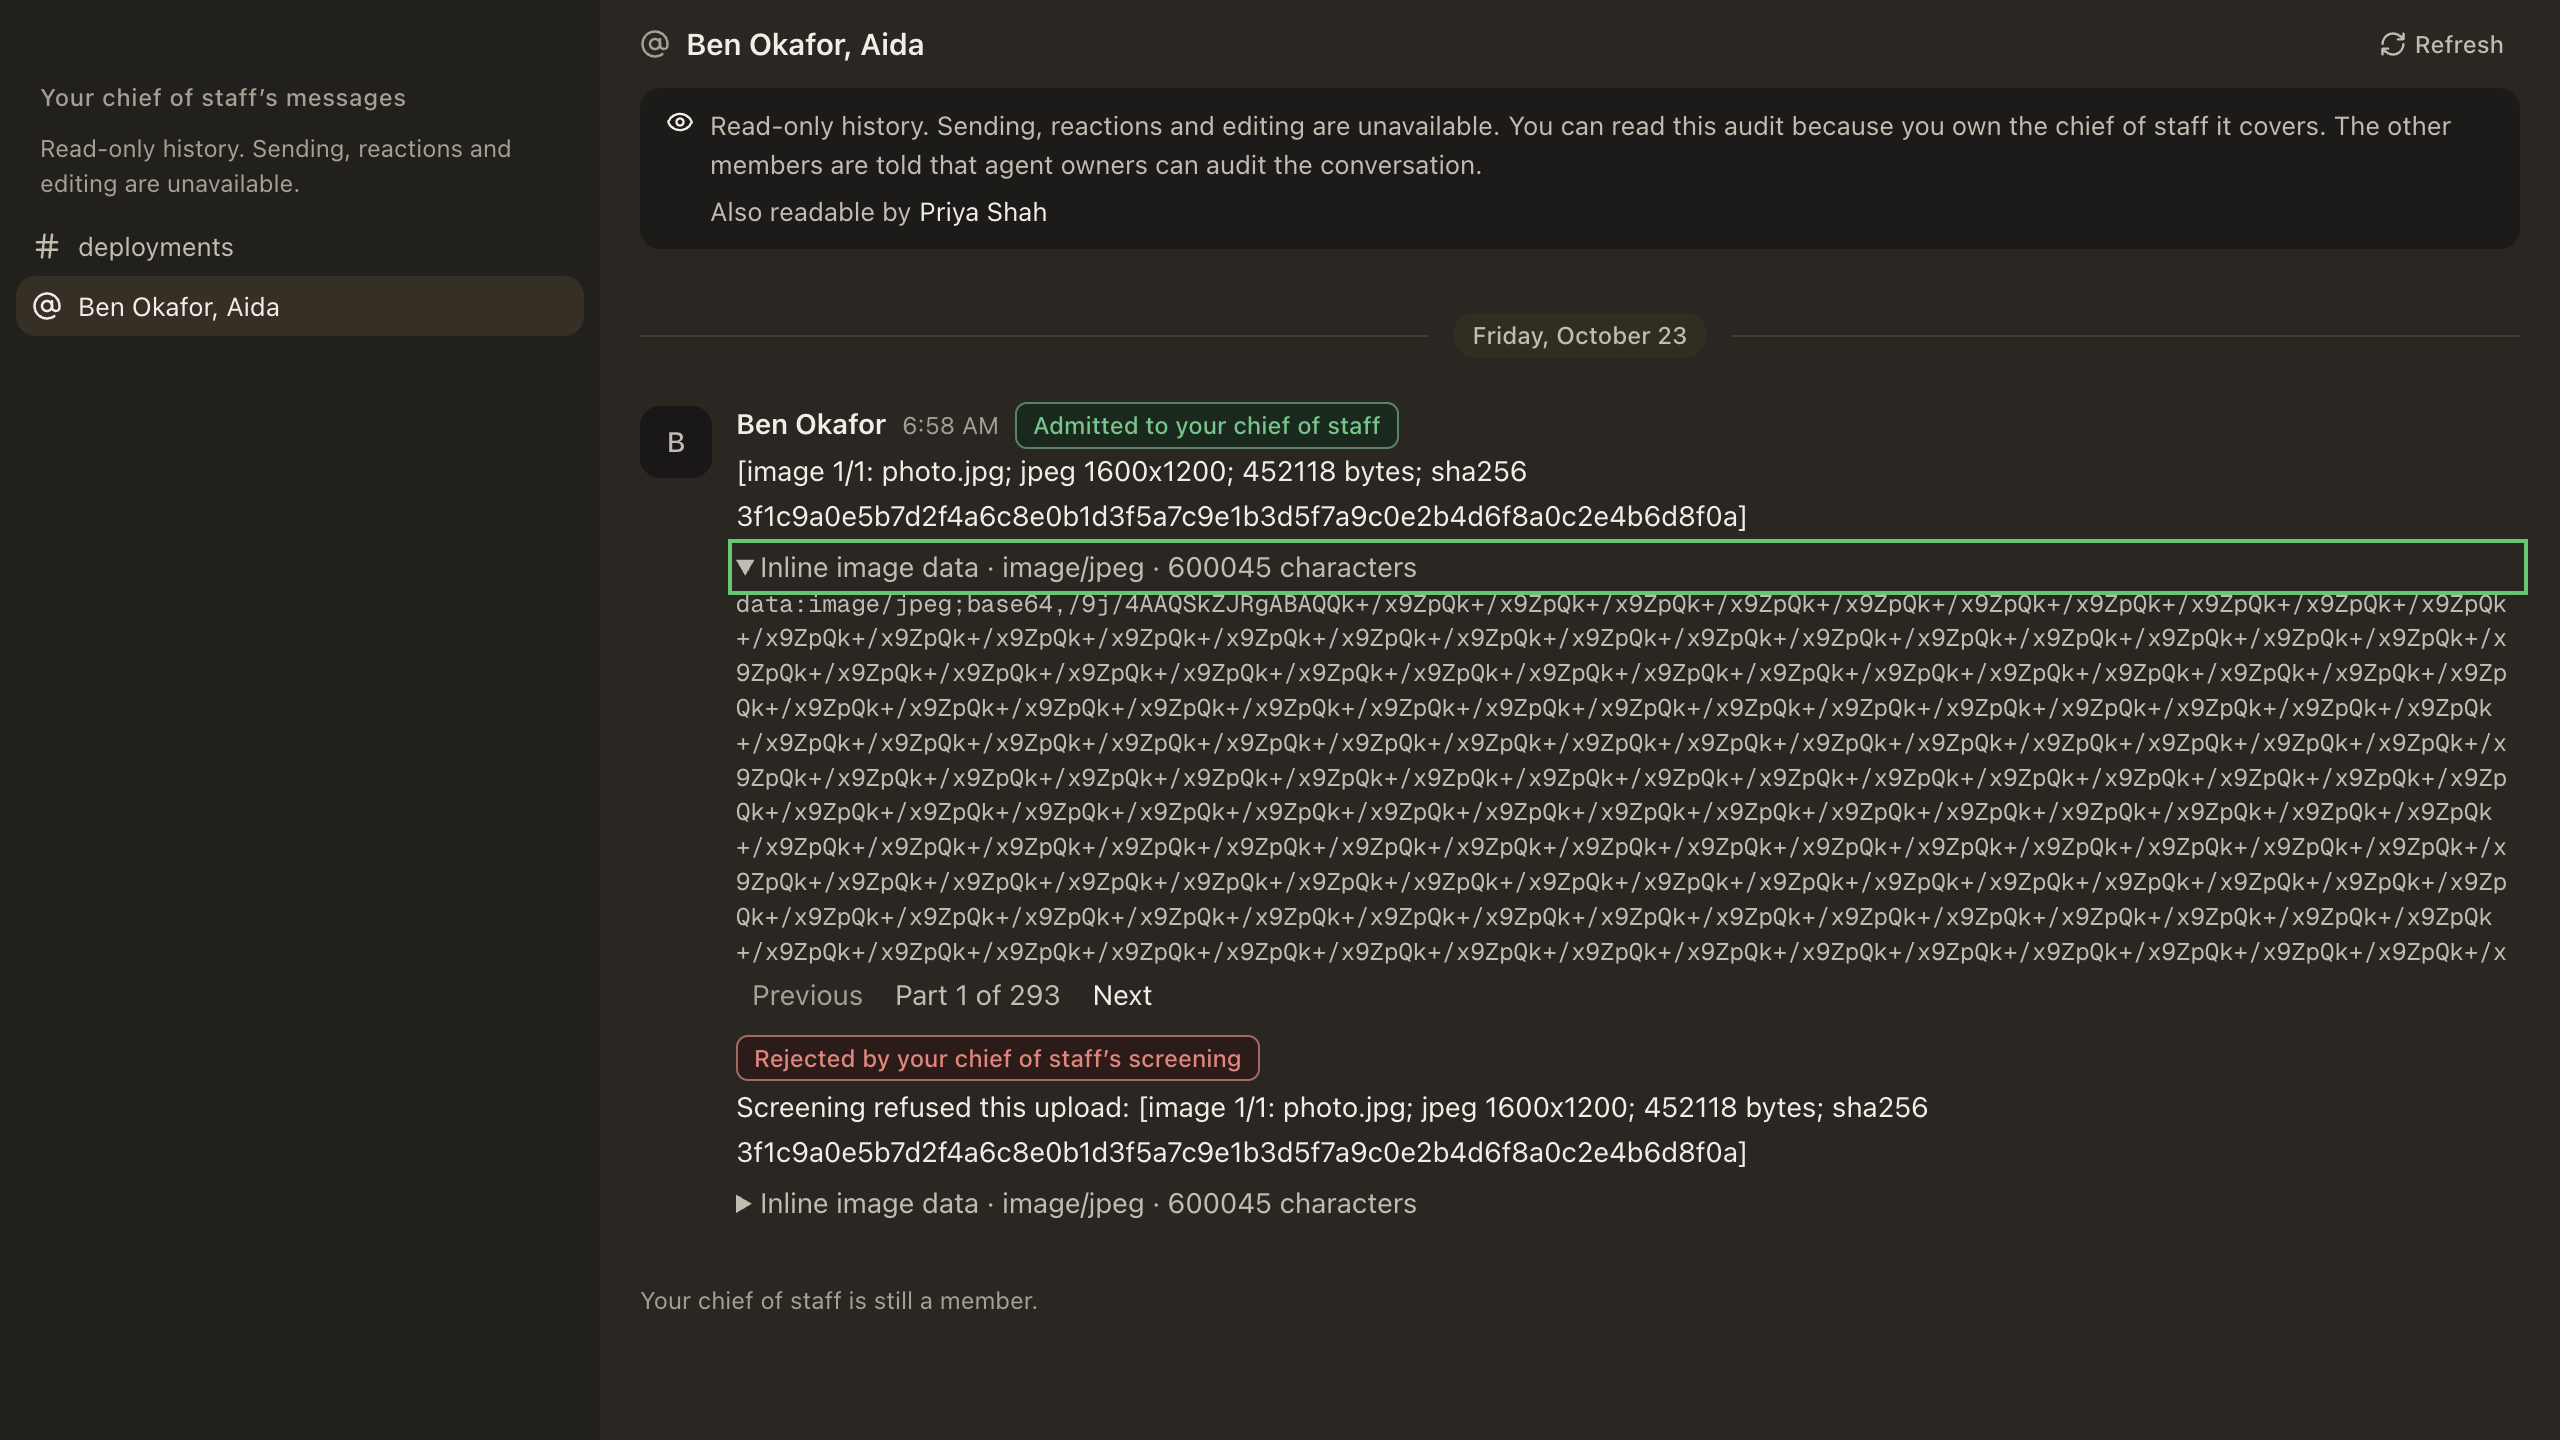
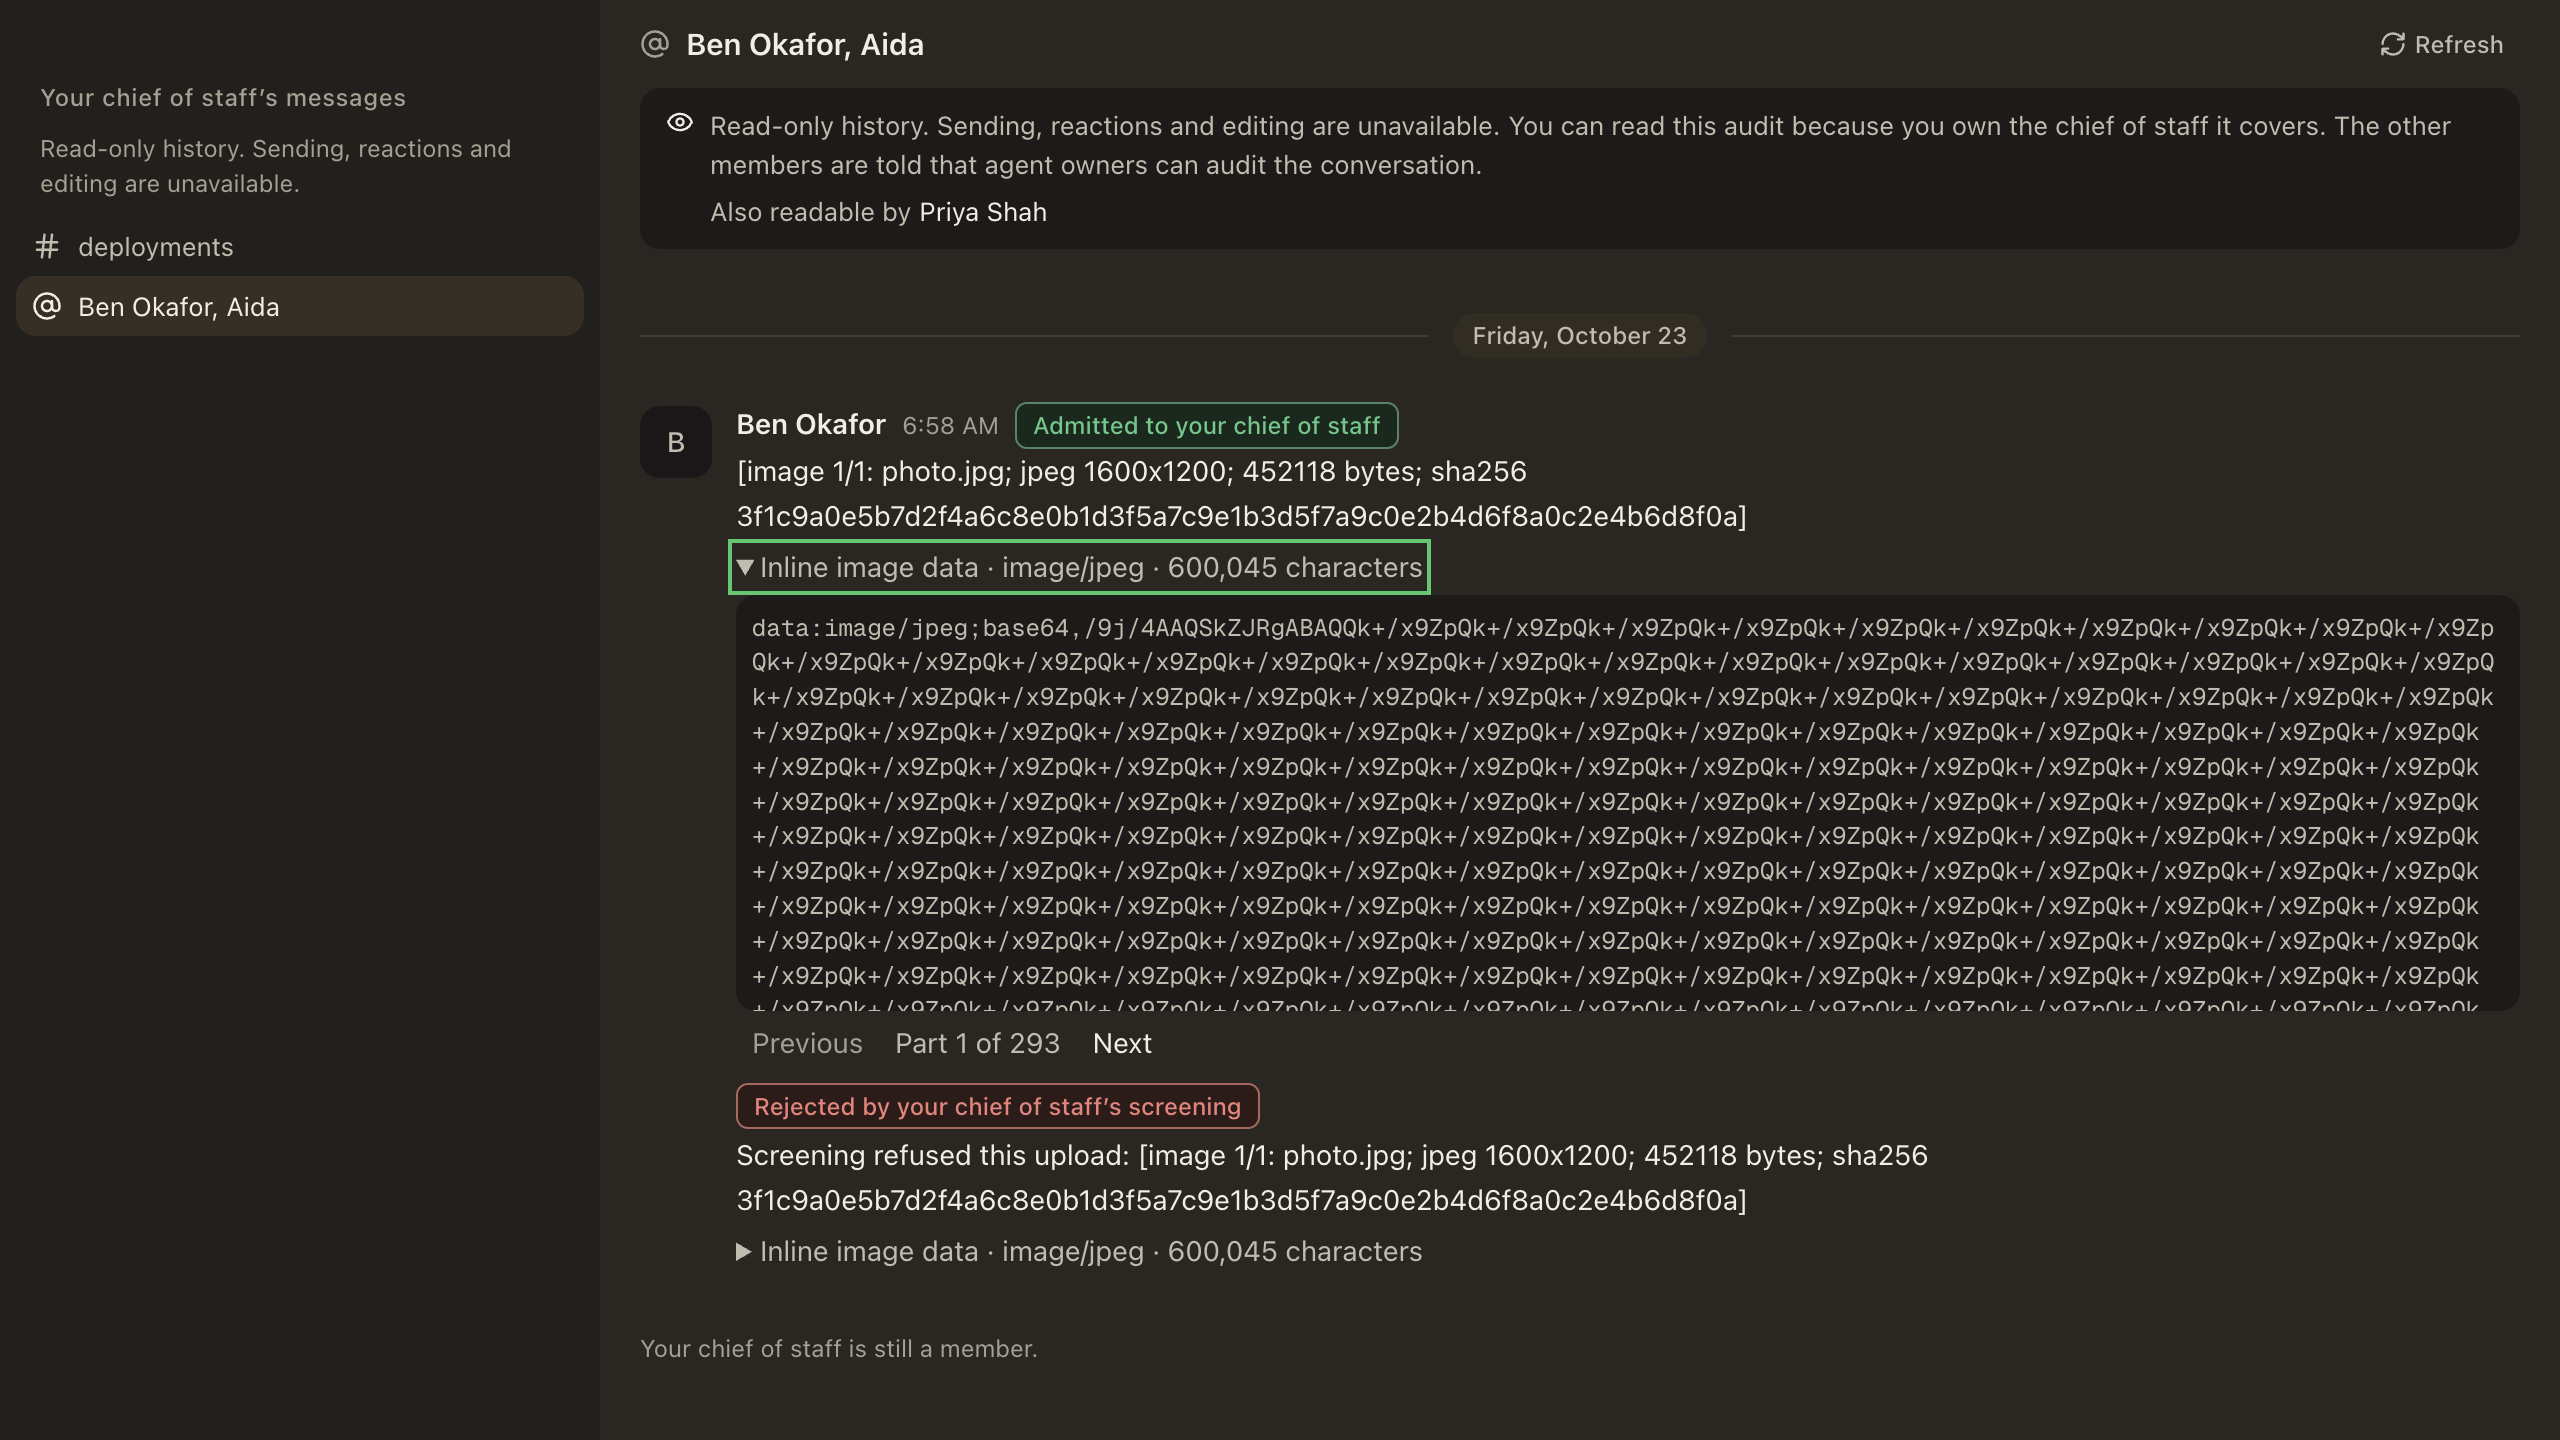
docs(pr-evidence): re-capture legacy inline-data receipt frames for review round 1

Changed region(s): [[0.2812, 0.375, 1.0, 0.9375], [0.2812, 0.9062, 0.3125, 0.9375]]

diff --git a/docs/pr-evidence/legacy-inline-data-receipt/README.md b/docs/pr-evidence/legacy-inline-data-receipt/README.md
@@ -14,10 +14,18 @@ viewport at device scale 2. Both Storybooks were torn down by the helper
 | Frame | Tree | Story | Row height (CSS px, `li[data-message-id]`) |
 | --- | --- | --- | --- |
 | `before-audit.png` | origin/main `aff584da018` + this PR's two story files only | Team Bridge/Owner audit › OperatorReproReceipt | 122,260 and 122,258 |
-| `after-audit.png` | PR branch `28c4b754c13` | same | 104.2 and 102.2 |
-| `after-audit-inspect.png` | PR branch, first receipt opened | same | bounded `<pre>` 892×192, "Part 1 of 293" |
+| `after-audit.png` | PR branch `dd834f414ec` (review round 1 remediation) | same | 104.2 and 102.2; receipt summary 343.46×20 (`w-fit`, design D3) |
+| `after-audit-inspect.png` | same, first receipt opened | same | bounded `<pre>` 892×208 incl. `my-1`, content 876×192 (`max-h-48`), `bg-sunken` rgb(29,27,25), 8 px padding, 0 px border, 10 px radius (design D2); "Part 1 of 293" in an `aria-live="polite"` span (R1-4) |
 | `before-thread.png` | origin/main + story files | Team Bridge/Attachments › BubbleLegacyInlineDataReceipt | 161,634 |
-| `after-thread.png` | PR branch | same | 102.5 |
+| `after-thread.png` | PR branch `dd834f414ec` | same | 102.49 |
+| `after-thread-code.png` | PR branch `dd834f414ec` | Team Bridge/Attachments › BubbleDataUriInCode | 143.29 (short URIs: one `<pre>` 672×44.8 holding the `<img src="data:…">` line, inline `code` intact, prose after the fence a paragraph, no `<details>`) and 76.80 (20,022-character URI in a fence: ONE receipt for the whole block, no empty code block, prose after it) |
+
+Round-1 (2026-11-02, `dd834f414ec`) frames were captured the same way, through the
+bare preview `iframe.html?id=…&globals=theme:dark` so the geometry reads reach the
+DOM. The before state of the code case is QA round 1's frames 19/20 (branch
+`qa-evidence/1554-r1`): on `6cbfe9f05e5` the fence split around a 22-character
+"receipt" and the prose after it rendered as code. Counts are grouped by the
+locale (`600,045`, design D1).
 
 The audit's rejected row reads its text inline under the verdict chip, with no
 expand step: #1533's shipped behaviour is kept, and the receipt stands in only for
@@ -26,9 +34,10 @@ the data URI.
 SHA-256:
 
 ```
-b19d13480764d52fcddf5dca91fadba028d3931d7df87349d929d0fbd223c9cf  after-audit-inspect.png
-fc624252d9557e1b2912094e1a3ec634c143ba620553106378fc3b86c759d767  after-audit.png
-19d62228993480c2d4a3076c080face4292077e7295e8952c0881b51eef19531  after-thread.png
+06d8ef24c756d234ac3827d0ee0c15310bf8fc10defccee355413f876d36325f  after-audit-inspect.png
+6dc1d3e112eacd7dc1a40c52db87c1e33f56b58cc9aa4e044c74928d460e19eb  after-audit.png
+b16be07bc579080c6d75a97e8405afb6f994558c13159e2df74f3a342ec9e2e2  after-thread-code.png
+d2c488ea3e9efeabed060136c58d7f8c5a81dd6ccb44c8e38593d80d32d50824  after-thread.png
 f11837e7327185e0ea1ab2291d21b7864e2edb361ceaa29c33e09ad1a4c13eb5  before-audit.png
 ee7805b16484550484b065d7928012b8732470bc3eeb55f9517cb4948d6d36eb  before-thread.png
 ```
